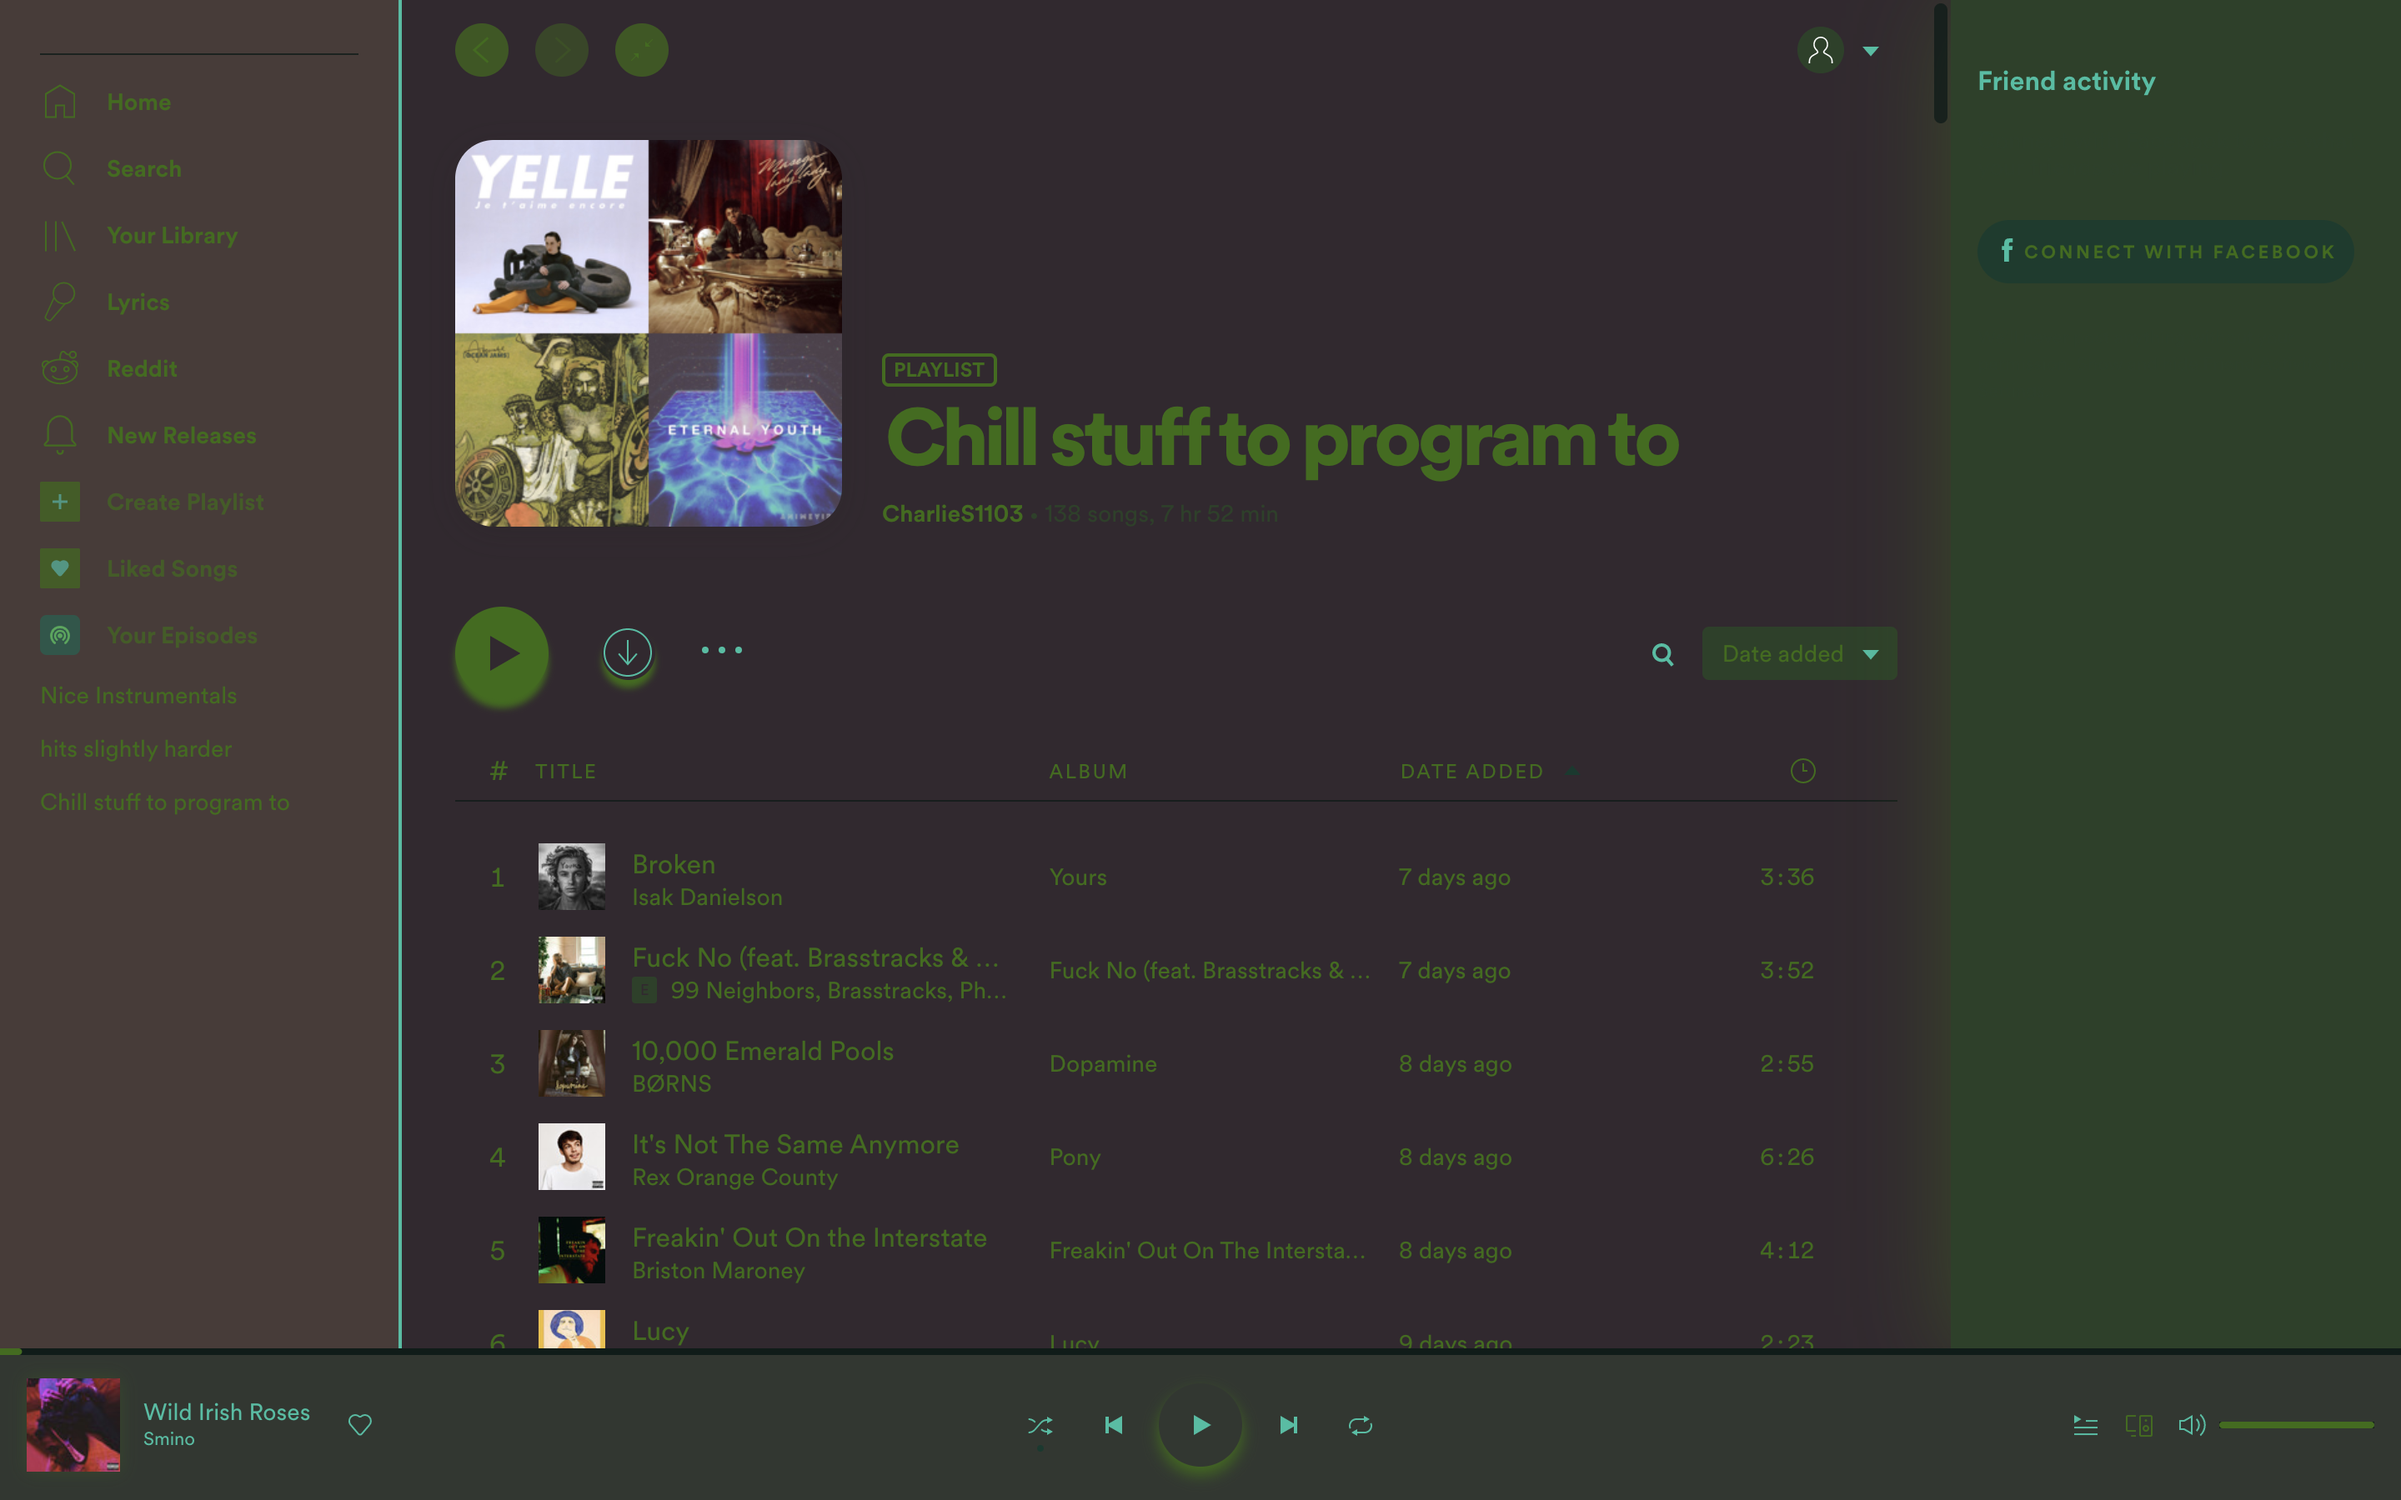
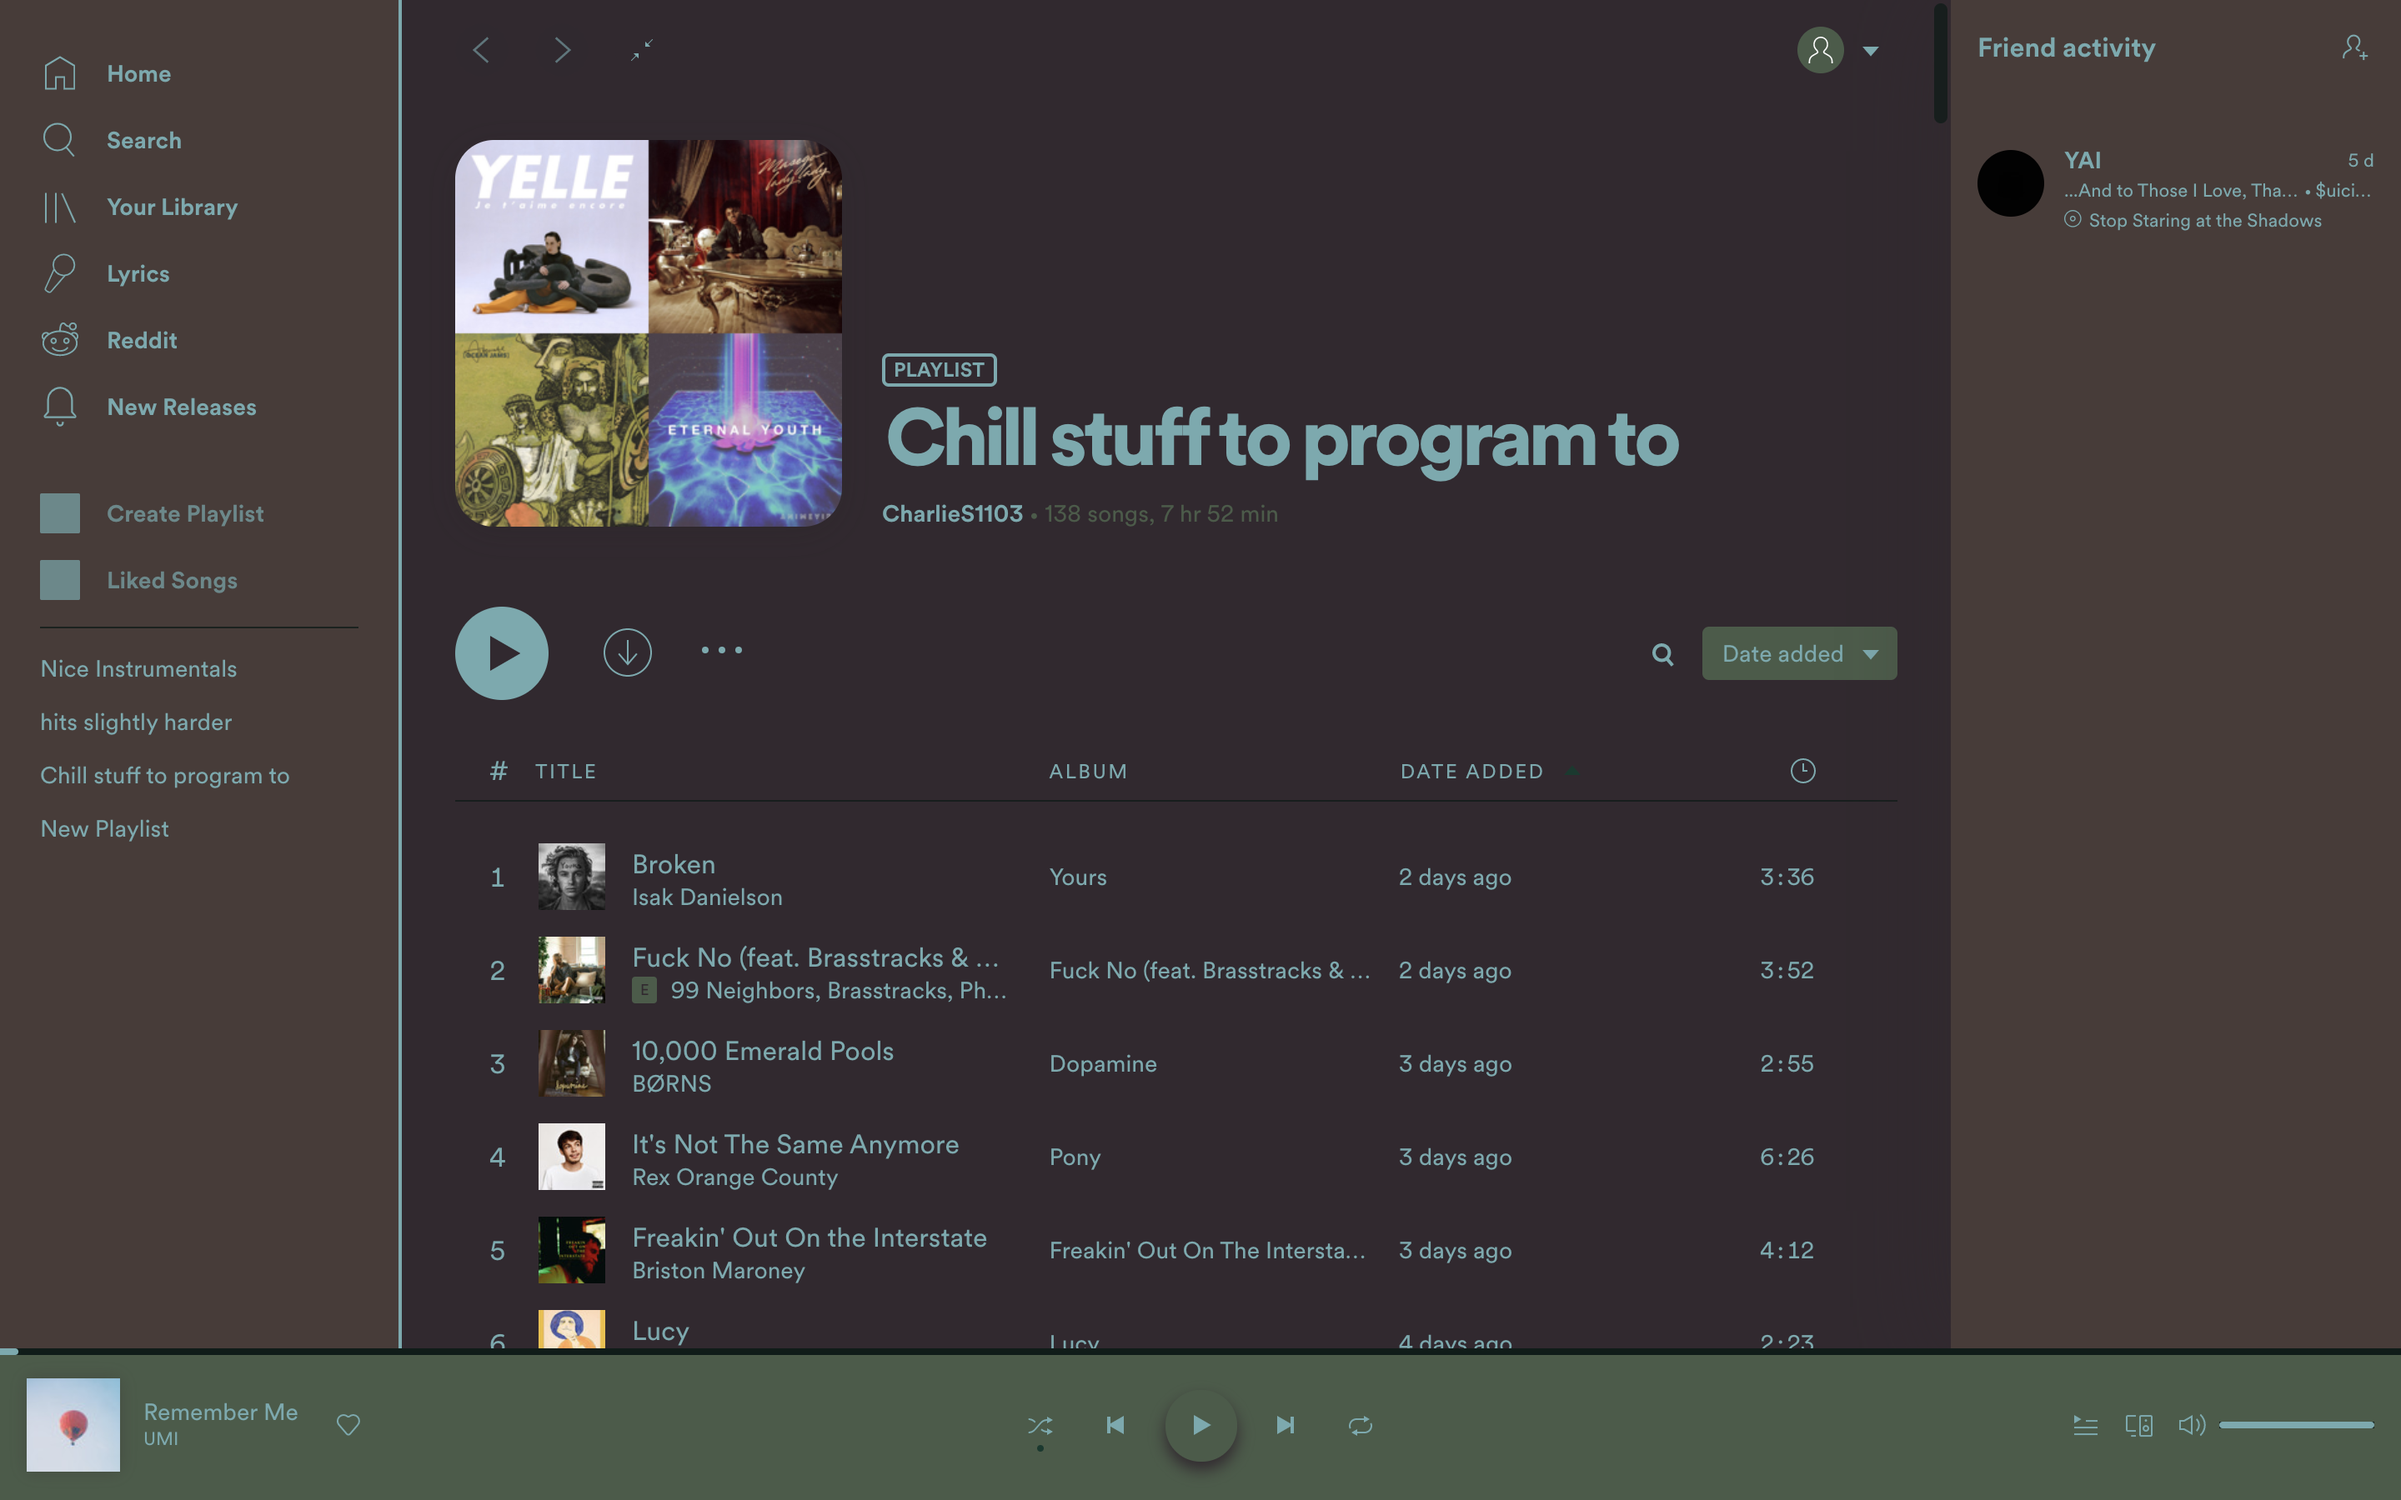
Added border box and scrollable playlist selection and revised theme colors
Lover Earthy Deep Psycho and BIB themes are a WIP atm, will try and make them compatible in the new UI soon.

diff --git a/Sleek/user.css b/Sleek/user.css
@@ -1,3 +1,4 @@
+transparent-shadow: var(--spice-shadow) '80'
 .main-rootlist-rootlistDividerGradient {
     display: none;
 }
@@ -324,13 +325,9 @@ p.main-buddyFeed-timestamp.main-type-finale,
     background-color: var(--spice-selected-row) !important;
 }
 .main-rootlist-textWrapper.main-type-viola{
-    cursor: pointer !important;
-    transition: all 500ms;   
+    cursor: pointer !important;    
 }
-.main-rootlist-textWrapper.main-type-viola:hover{
-    font-size:20px;
-    font-size-adjust: 20px;
-    }
+
 .main-navBar-navBar{
     border-right: 2px solid var(--spice-misc);
 }
@@ -358,4 +355,46 @@ p.main-buddyFeed-timestamp.main-type-finale,
 .main-repeatButton-button,.main-skipForwardButton-button,.main-skipBackButton-button,.main-shuffleButton-button{
    cursor: pointer !important;
 }
+#spicetify-playlist-list{ 
+    display: inline;
+    height: 40vh;
+    align-items: center;
+    box-sizing: border-box;
+     position: fixed;
+    left: -40px;
+    top: 425px;
+    overflow:hidden; 
+    overflow-y:scroll;
+    }
+#spicetify-playlist-list > li{
+  margin: 0 3vw;
+  width: 15vw;
+  flex-shrink: 0;
+  padding: 2vw;
+  box-sizing: border-box;
+  position: relative;
+  border-radius: 2px;
+  border: 2px solid var(--spice-text);
+  display: flex;
+  justify-content: space-between;
+  flex-direction: column;
+  box-shadow: 4px 4px 0 var(--transparent-shadow);
+  transition: all 500ms;
+}
+#spicetify-playlist-list > li:hover{
+animation: mymove 2s;
+}
+@keyframes mymove {
+  50% {border-color:var(--spice-button);}
+}
+
+.main-rootlist-textWrapper{
+    overflow:auto !important;
+    text-overflow: unset !important;
+    white-space: pre !important;
+}
+.main-connectToFacebook-text,.main-connectToFacebook-disclaimer{
+    color: unset !important;
+}
+
 

diff --git a/Sleek/README.md b/Sleek/README.md
@@ -17,9 +17,8 @@
 ### Lover
 ![Lover Screenshot](lover.png)
 
-### Earthy
+###Earthy
 ![Earthy Screenshot](earthy.png)
-
 ## More
 
 A simple and sleek theme that builds on the basic Spotify UI.
